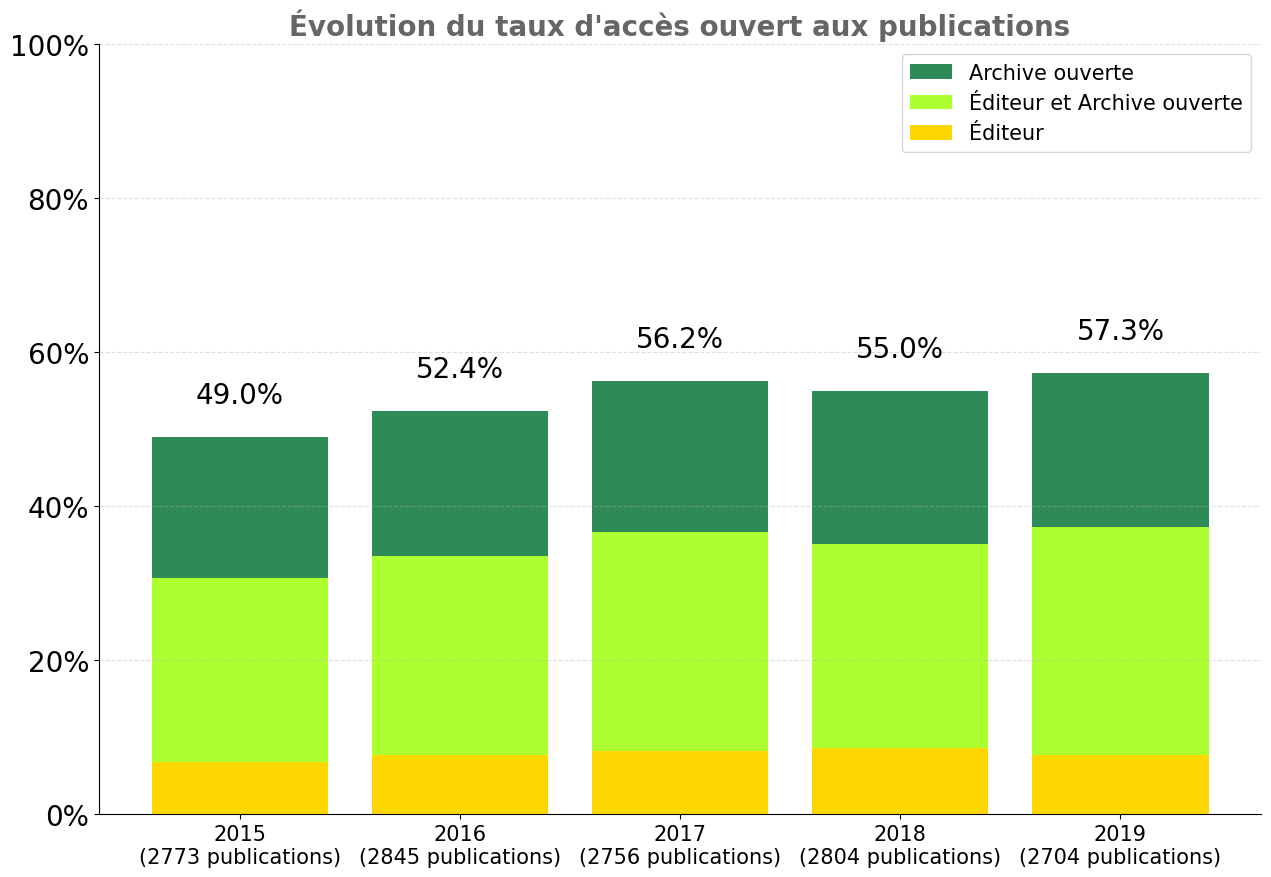
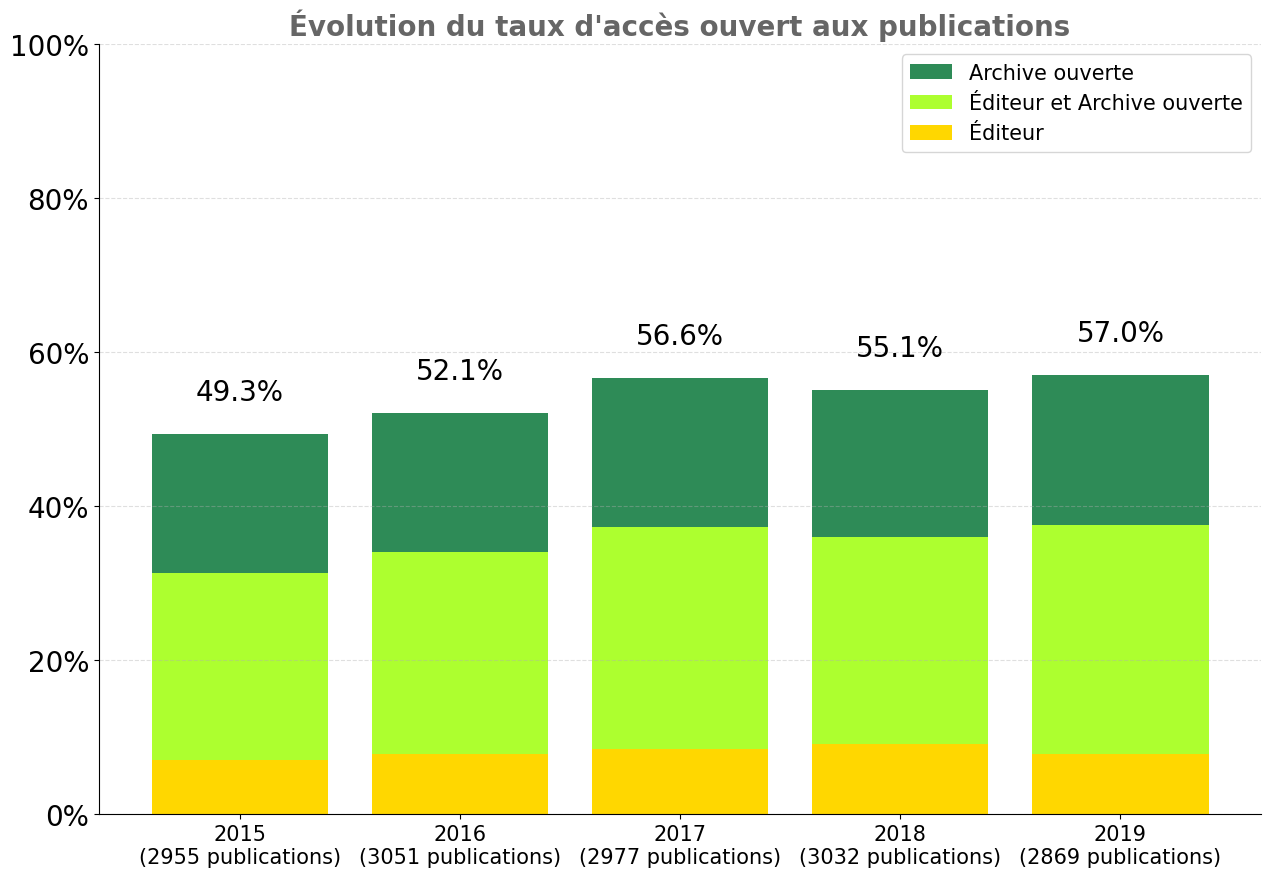
init

diff --git a/c_produire_graphique.py b/c_produire_graphique.py
@@ -11,9 +11,12 @@ Réalisation des 4 graphiques
     
 
 """
-df = pd.read_csv("./data/out/uvsq_publications_2015_19.csv", na_filter= False)
+#dtype = {"author_count": np.float32, "published_year":"string", "hal_selfArchiving": "boolean"}
+df = pd.read_csv("./data/out/uvsq_publications_2015_19.csv", dtype={"published_year":"string"}, na_filter=False)
 print("nb of publications", len(df.index))
 
+#print(df.info())
+#exit()
 
 
 """
@@ -26,15 +29,15 @@ pd.set_option('mode.chained_assignment', None)
 dfyears.is_oa = dfyears.is_oa.astype(bool)
 
 #uniquement pour un retour dans la consol
-halnodoi = dfyears.loc[ (dfyears["doi"] == "") , :]
+halnodoi = dfyears[ dfyears["doi"] == ""]
 print(f"nb publis hal uniquement {len(halnodoi.index)}")
 print(f"soit en % de plus {round(len(halnodoi.index)/len(dfyears.index) * 100, 1)}")
 
-haloa = dfyears.loc[ (dfyears["doi"] == "") & (dfyears["is_oa"] == True) , :]
+haloa = dfyears.loc[ (dfyears["doi"]== "") & (dfyears["is_oa"] == True) , :]
 print("nombre de publi oa dans hal", len(haloa))
 
 #retrouver les types d'AO
-dfyears["oa_publisher_repository"] = dfyears.oa_type == "repository;publisher"
+dfyears["oa_publisher_repository"] = dfyears.oa_type == "publisher;repository"
 dfyears["oa_repository"] = dfyears.oa_type == "repository"
 dfyears["oa_publisher"] = dfyears.oa_type == "publisher"
 dfyears["oa_unk"] = dfyears.oa_type == "unknow"
@@ -113,8 +116,8 @@ ax.spines['right'].set_visible(False)
 
 plt.title("Évolution du taux d'accès ouvert aux publications", fontsize = 20, x = 0.5, y = 1, fontweight = 'bold', alpha = 0.6)
 plt.savefig('./img/evolution_oa.png', dpi=100, bbox_inches='tight', pad_inches=0.1)
-exit()
 
+#exit()
 
 
 #===========================================================
@@ -143,19 +146,17 @@ ax.legend(loc="center", fontsize = 12)
 plt.title('Proportion des publications 2018 en accès ouvert (mesuré en 2020)', fontsize = 20, x = 0.55, y = 1.8, fontweight = 'bold', alpha = 0.6)
 plt.savefig('./img/type_oa_2018.png', dpi=150, bbox_inches='tight', pad_inches=0.9)
 
-exit()
-
 """
-
 #===========================================================
 ##___________________2018 : type d'accès ouvert par éditeurs
 #===========================================================
 publications_2018 = df.loc[df['published_year'] == "2018.0",:]
 publications_par_editeur = publications_2018['publisher'].value_counts().iloc[0:30]
+print(publications_par_editeur)
 sel_editors = ["Elsevier BV", "Springer Science and Business Media LLC", "Wiley", "Copernicus GmbH", "Oxford University Press (OUP)", 
 "American Geophysical Union (AGU)", "Ovid Technologies (Wolters Kluwer Health)", "IEEE", "EDP Sciences", "Springer International Publishing",
-"Informa UK Limited", "BMJ", "IOP Publishing", "American Chemical Society (ACS)", "Public Library of Science (PLoS)", "MDPI AG", 
-"American Meteorological Society", "CAIRN", "Dalloz", "Frontiers Media SA"]
+"BMJ", "Informa UK Limited", "Public Library of Science (PLoS)", "IOP Publishing", "American Chemical Society (ACS)", "MDPI AG", 
+"American Meteorological Society", "Dalloz", "CAIRN", "Frontiers Media SA"]
 editeurs_2018 = publications_2018[publications_2018['publisher'].isin(sel_editors)]
 #Quelle est la proportion d'accès ouvert, par type d'accès, des publications par éditeur dans l'année ?
 df_oa_editeur_global = pd.crosstab([editeurs_2018['publisher']],editeurs_2018['oa_type'])
@@ -174,7 +175,7 @@ df_oa_editeur["Total"] = publications_par_editeur
 df_oa_editeur["y_label"] = df_oa_editeur.index + " - " + df_oa_editeur["Total"].apply(str) \
                                      + " publications"
 df_oa_editeur.index = df_oa_editeur["y_label"]
-df_oa_editeur = df_oa_editeur.sort_values(by='closed', ascending=False)
+df_oa_editeur = df_oa_editeur.sort_values(by=['closed', "publisher"], ascending=False)
 
 ## __2__ Générer le graphique
 import matplotlib.ticker as mtick
@@ -222,8 +223,7 @@ plt.title("Taux d'accès ouvert aux publications 2018 par éditeur", fontsize = 
           fontweight = 'bold', alpha = 0.6)
 plt.savefig('./img/taux_type_oa_editeur.png', dpi=100, bbox_inches='tight', pad_inches=0.9)
 
-exit()
-
+#exit()
 
 #===========================================================
 ##___________________2018 : type d'accès ouvert par discipline
@@ -301,7 +301,7 @@ plt.title("Taux d'accès ouvert des publications 2018 par discipline", fontsize 
 plt.savefig('./img/taux_type_oa_discipline.png', dpi=100, bbox_inches='tight', pad_inches=0.1)
 
 
-exit()
+#exit()
 
 
 

diff --git a/b_enrichir_data.py b/b_enrichir_data.py
@@ -237,7 +237,7 @@ def enrich_df(df, count):
 	nb = 0 
 	for row in df.itertuples():
 		# % de progression
-		if row.Index > 0 and row.Index % 10 == 0 : 
+		if row.Index > 0 and row.Index % 50 == 0 : 
 			print( round(row.Index/ len(df.index) * 100), "%")
 		
 		#print(row.doi, row.halId) 
@@ -246,7 +246,7 @@ def enrich_df(df, count):
 		md = get_hal_data(row.doi, row.halId)
 	
 		# __b si le doc a un DOI récupérer les données de unpaywall 
-		# (Les métadonnées de HAL commune avec unpaywall seront écrasées)
+		# (Les métadonnées de HAL communes avec unpaywall seront écrasées)
 		if row.doi  : 
 			add = get_upw_data(row.doi)
 			# ajout des métadonnées qui ne sont pas False
@@ -284,10 +284,12 @@ df = pd.read_csv("./data/uvsq_dois_halId_2015_19.csv", converters={'doi' : str},
 
 # ______1______ Ajouter les principales métadonnées : HAL, unpaywall et détection des APC
 print("nb of publis to treat", len(df))
-#en 2e argument préciser le nb de publication
-df = enrich_df(df, 18000) 
+#un 2e argument préciser le nb de publication
+df = enrich_df(df, 20000) 
 
 
+#un export sécurité avant les traitements
+df.to_csv("./data/out/uvsq_publications_2015_19__avant_alignement.csv", index = False)
 
 # ______2______ Ajouter métadonnées de domaine et déduire le statut d'accès ouvert
 # add scientific field from bso Lorrain
@@ -317,14 +319,11 @@ def deduce_oa_type(row) :
 	(row["hal_location"] == "file" or
 	row["hal_location"] == "arxiv" or 
 	row["hal_location"] == "pubmedcentral") : 
-			loc.append(0, "repository")
+			loc.append("repository")
 
 	return ";".join(loc) if loc else "closed"
 
 df["oa_type"] = df.apply(lambda row : deduce_oa_type(row) , axis = 1)
-
-#un export avant les alignements
-df.to_csv("./data/out/uvsq_publications_2015_19__avant_alignement.csv", index = False)
 
 
 

diff --git a/a_consolider_sources.py b/a_consolider_sources.py
@@ -53,7 +53,9 @@ row_buffer.append( analyse_df('wos', wos) )
 # SCOPUS
 df_buffer.clear()
 for y in range(2015, 2020): #2020 is exclude
-	df_buffer.append( pd.read_csv(f"./data/scopus_{str(y)}.csv", encoding='utf8'))
+	for suff in ["oa", "other"] : 
+		df_buffer.append( pd.read_csv(f"./data/scopus_{str(y)+suff}.csv", encoding='utf8'))
+
 scopus_r = pd.concat(df_buffer)
 scopus = pd.DataFrame( {"doi" : scopus_r["DOI"], 'title': scopus_r['Title']})
 row_buffer.append (analyse_df("scopus", scopus))

diff --git a/data/readme.md b/data/readme.md
@@ -34,34 +34,40 @@ https://github.com/ml4rrieu/open_science_tools/blob/main/apc_journal_tables/open
 
 <br /><br />
 ## Requêtes utilisées pour extraire les données des bases bibliographiques
+Sont inclus les publications directement affiliées à l'université et les publications des unités de recherche dont l'université est tutelle.
+
 **WOS**
 
 `OG=(Universite de Versailles Saint-Quentin-En-Yvelines)
 Timespan: 2015-2019. Indexes: SCI-EXPANDED, SSCI, A&HCI, CPCI-S, CPCI-SSH, ESCI, CCR-EXPANDED, IC. `
 
+<!--nota : Le WOS fonctionne avec une logique de variantes d'affiliation. le champs `Organization-Enhanced : OG` inclut ces différentes variantes.
+-->
 limit 5k
-
 
 **SCOPUS**
 
-`AF-ID ( "Universite de Versailles Saint-Quentin-en-Yvelines"   60029937 )  AND  ( LIMIT-TO ( PUBYEAR ,  YYYY ) ) `
+`AF-ID("Universite de Versailles Saint-Quentin-en-Yvelines" 60029937) OR AF-ID("Biomarqueurs en Cancérologie et Onco-Hématologie" 60106042) OR AF-ID("Biostatistique Biomathématique, Pharmacoépidémiologie et Maladies Infectieuses" 60106096) OR AF-ID("Centre d'Études sur la Mondialisation Les Conflits, Les Territoires et Les Vulnérabilités" 60106072) OR AF-ID("Centre d'Histoire Culturelle Des Sociétés Contemporaines" 60106071) OR AF-ID("Centre de recherche en épidémiologie et santé des populations" 60106085) OR AF-ID("Centre de Recherche Versailles Saint-Quentin Institutions Publiques" 60106070) OR AF-ID("Centre de Recherches en économie-écologique éco-innovation et ingénierie du Développement Soutenable" 60106206) OR AF-ID("Centre de Recherches Sociologiques sur le Droit et les Institutions Pénales" 60106097) OR AF-ID("Cohortes épidémiologiques en population" 60106188) OR AF-ID("Cultures Environnements, Arctique, Représentations, Climat" 60106069) OR AF-ID("Données et Algorithmes pour une Ville Intelligente et Durable" 60109215) OR AF-ID("Dynamiques Patrimoniales et Culturelles" 60106099) OR AF-ID("Fédération Conflits Vulnérabilités, Espaces" 60106104) OR AF-ID("Gamètes Implantation, Gestation" 60106302) OR AF-ID("Groupe d'Etude de la Matière Condensée CNRS-Université de Versailles" 60101347) OR AF-ID("Handicap Neuromusculaire : Physiopathologie Biothérapie et Pharmacologie Appliquées" 60106116) OR AF-ID("Infection et inflammation Chronique" 60106125) OR AF-ID("Institut Lavoisier de Versailles" 60106152) OR AF-ID("Laboratoire Atmosphères Milieux, Observations Spatiales" 60106194) OR AF-ID("Service d'Aéronomie" 60032611) OR AF-ID("Laboratoire des Sciences du Climat et de l'Environnement" 60045588) OR AF-ID("Laboratoire Anthropologie Archéologie, Biologie" 60172670) OR AF-ID("Laboratoire d'Étude de la Réponse Neuroendocrine au Sepsis" 60106308) OR AF-ID("Laboratoire d'Ingénierie des Systèmes de Versailles" 60106176) OR AF-ID("Laboratoire de Droit des Affaires et Nouvelles Technologies" 60106177) OR AF-ID("Laboratoire de Génétique et Biologie Cellulaire" 60106178) OR AF-ID("Laboratoire de Mathématiques de Versailles" 60106179) OR AF-ID("Laboratoire de Recherche en Management" 60106180) OR AF-ID("Laboratoire de recherche sur les mécanismes moléculaires et pharmacologiques de lobstruction bronchique" 60106181) OR AF-ID("Laboratoire de Recherches cliniques et en santé publique sur les handicaps psychiques cognitifs et moteurs" 60106205) OR AF-ID("Laboratoire d’informatique Parallélisme Réseaux Algorithmes Distribués" 60111070) OR AF-ID("Laboratoire Études Cliniques et Innovations Thérapeutiques en Psychiatrie" 60106309) OR AF-ID("Laboratoire Parallélisme Réseaux, Systèmes, Modélisation" 60106200) OR AF-ID("Laboratoire physiopathologie et diagnostic des infections microbiennes" 60106204) OR AF-ID("Laboratoire Professions Institutions, Temporalités" 60106150) OR AF-ID("Laboratoire Universitaire Santé-Environnement-Vieillissement" 60106301) OR AF-ID("Observatoire de Versailles Saint-Quentin-en-Yvelines" 60106237) OR AF-ID("Pharmacoépidémiologie et Maladies Infectieuses" 60106203) OR AF-ID("Physiopathologie et Pharmacologie Clinique de la Douleur" 60106202) OR AF-ID("Risques Cliniques et Sécurité en Santé des Femmes et en Santé Périnatale" 60106112) OR AF-ID("Vieillissement et Maladies Chroniques. Approches Épidémiologiques et de Santé Publique" 60106201) AND ( LIMIT-TO ( PUBYEAR,2018) )` 
 
-limite 2k
+limite 2k 
+
+utilsation du filtre boolean openaccess pour faire des extractions de moins de 2k  (ex. `AND ( LIMIT-TO ( openaccess,0) )` )
+
+<!--nota : Inclusion des publications directement affiliées à l'université et des publications des unités dont l'université est tutelle.-->
+mémo : pour avoir la requête avec toutes des unités faire une recherche par affiliation de l'université puis sélectionner *whole instition*. Attention néanmoins : cela peut inclure, du fait des fédérations de recherche, des unités dont l'université n'est pas tutelle : penser à les retirer. 
 
 
 **HAL**
 
-`https://api.archives-ouvertes.fr/search?rows=10000&q=structId_i:81173&fq=publicationDateY_i:[2015%20TO%202019]&fq=( (docType_s:(ART OR COMM) AND popularLevel_s:0 AND peerReviewing_s:1) OR (docType_s:(OUV OR COUV OR DOUV) AND popularLevel_s:0) OR (docType_s:UNDEFINED))
-&fl=doiId_s,%20title_s,%20halId_s 
-&wt=csv`
+`https://api.archives-ouvertes.fr/search?rows=10000&q=structId_i:81173&fq=publicationDateY_i:[2015%20TO%202019]&fq=( (docType_s:(ART OR COMM) AND popularLevel_s:0 AND peerReviewing_s:1) OR (docType_s:(OUV OR COUV OR DOUV) AND popularLevel_s:0) OR (docType_s:UNDEFINED)) &fl=doiId_s,%20title_s,%20halId_s &wt=csv`
 
-UVSQ & 2015-19
+UVSQ
 
-ART + COMM if peer reviewed and not popular level
+ART ou COMM, si peer review et pas de vulgarisation
 
-OUV + COUV  + DOUV  if not popular level
+OUV ou COUV ou DOUV, si ce n'est pas de la vulgarisation
 
-UNDEFINIED
+UNDEFINIED (inlusion des preprints !)
 
 
 **PUBMED**

diff --git a/README.md b/README.md
@@ -1,5 +1,5 @@
 # Baromètre de la science ouverte de l'UVSQ
-2020-12-07<br />
+2020-12-07 -- en construction<br />
 
 
 ![UVSQ EVOL OA](img/evolution_oa.png)
